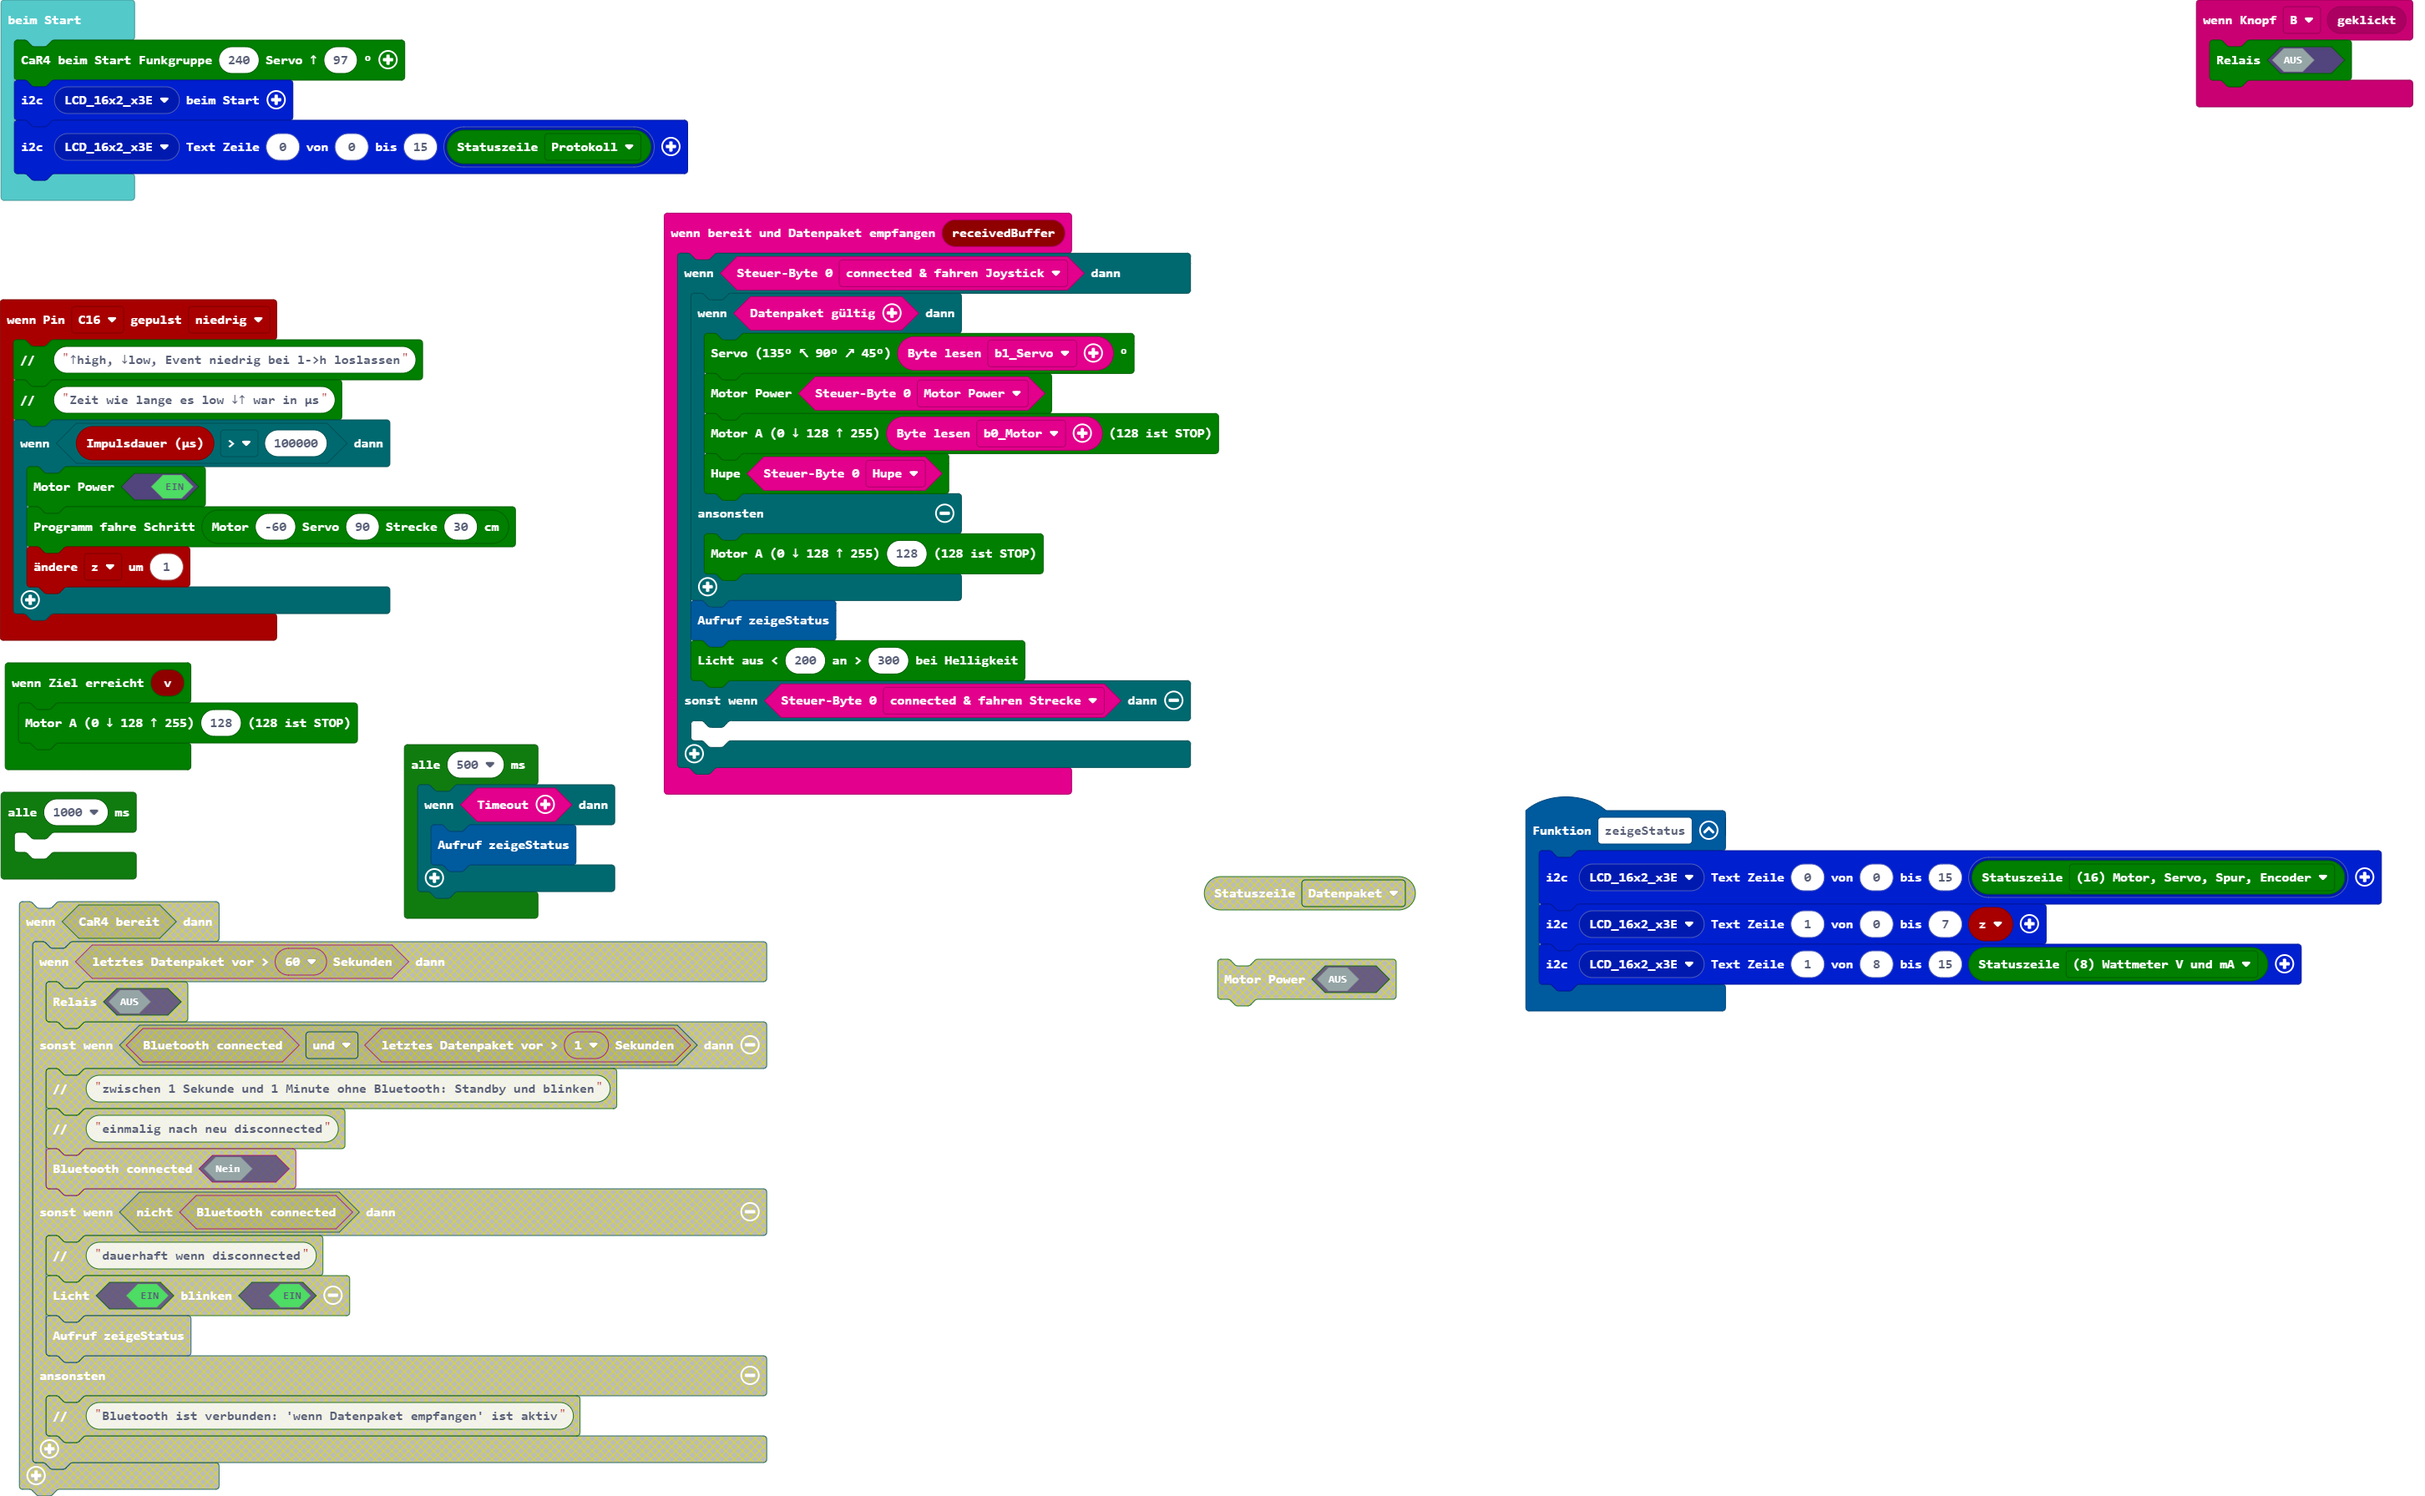
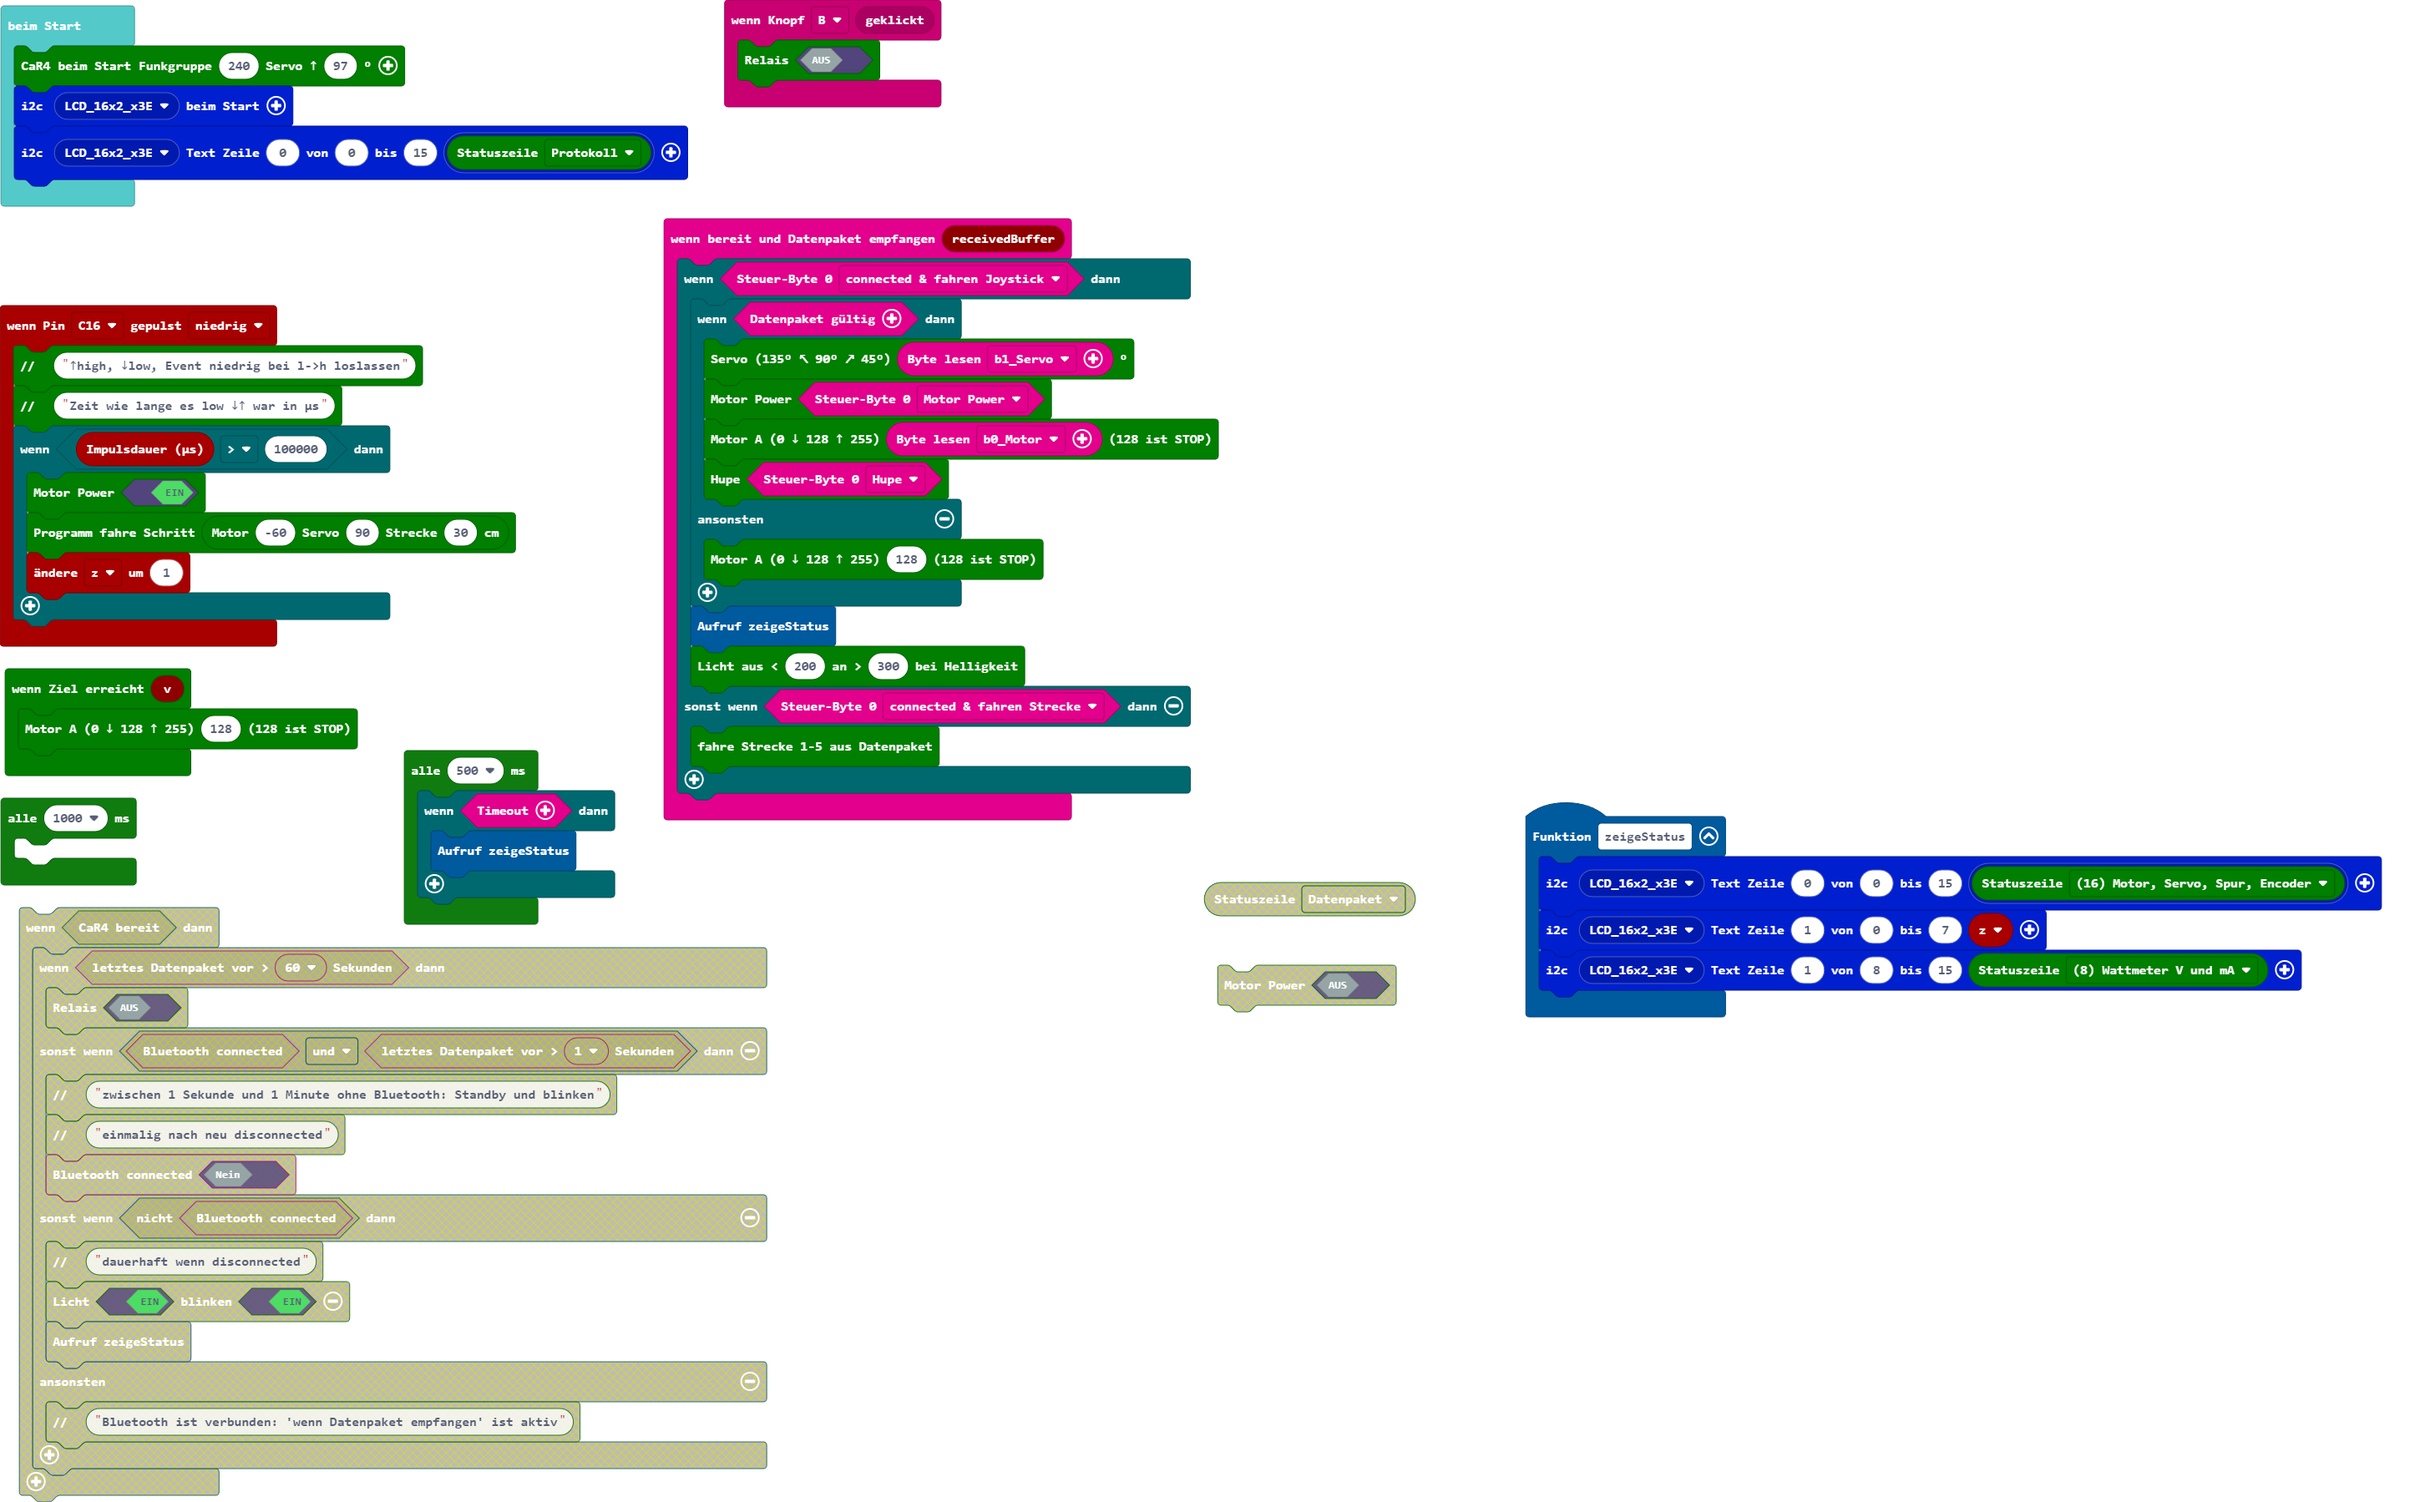
Aktualisiere main.blocks, main.ts

diff --git a/main.ts b/main.ts
@@ -11,7 +11,7 @@ car4.onReceivedData(function (receivedBuffer) {
         zeigeStatus()
         car4.licht_sensor(200, 300)
     } else if (car4.receivedBuffer_getBit(car4.eBufferBit.fahrenStrecke)) {
-    	
+        car4.fahreBuffer19()
     }
 })
 function zeigeStatus () {
